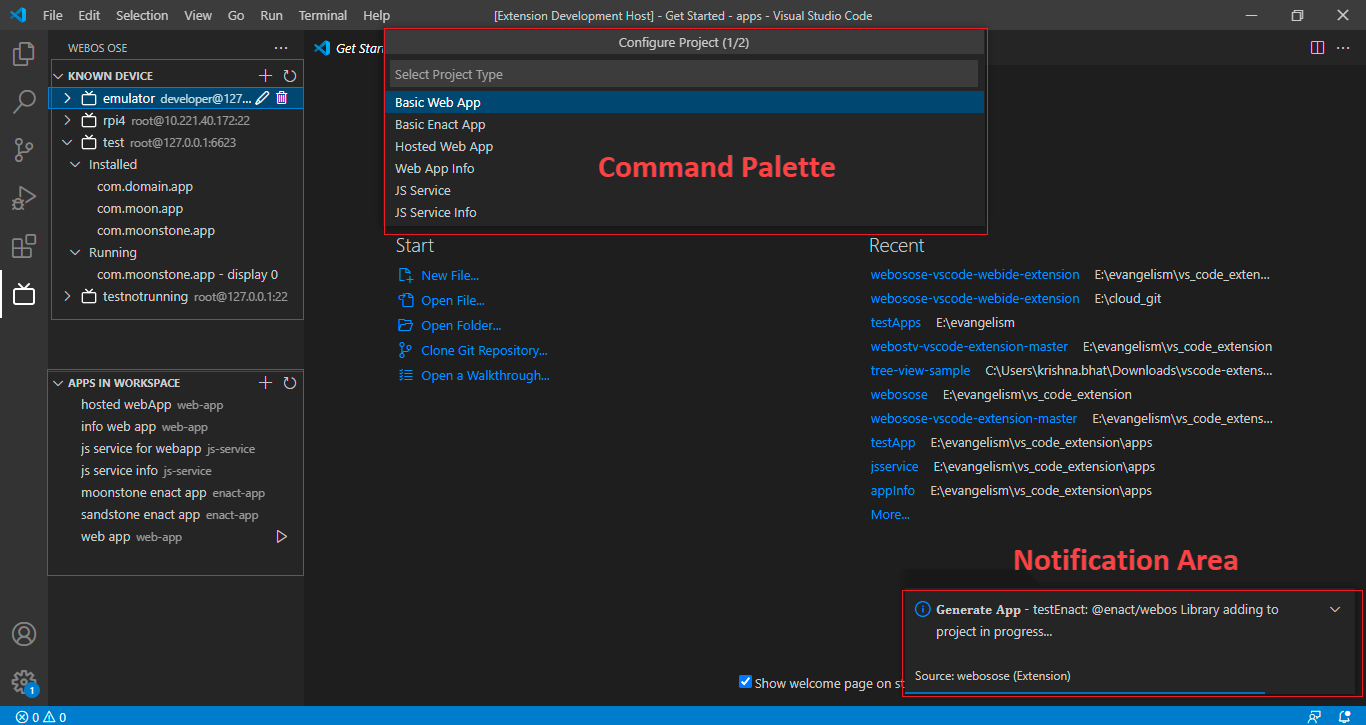
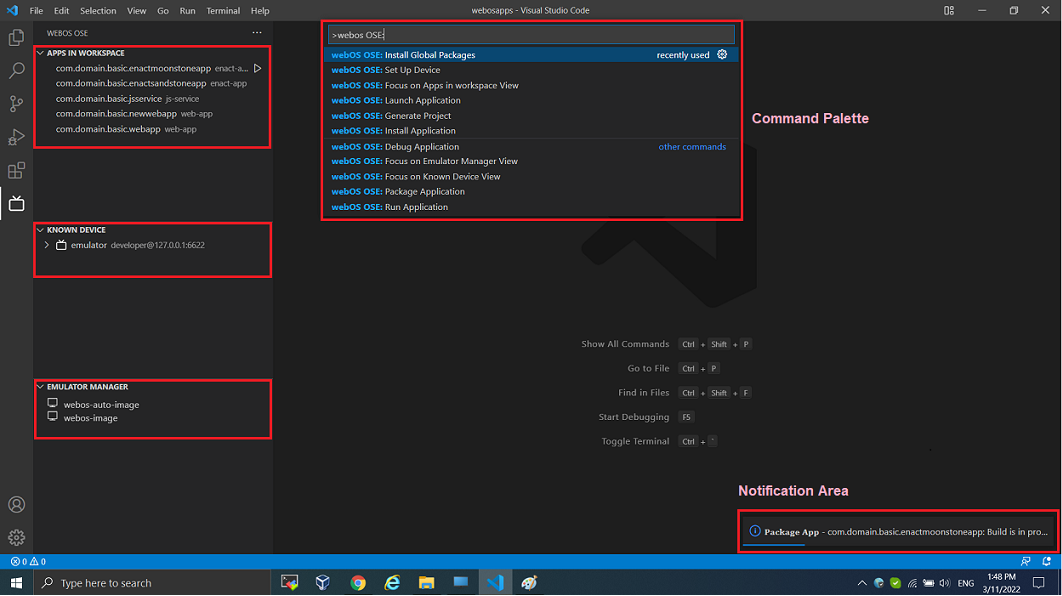
Release VS Code extension v2.0.0

Changed region(s): [[0.0, 0.0, 1.0, 1.0], [0.0311, 0.7852, 0.2175, 0.8154], [0.7458, 0.755, 0.9011, 0.7852]]

diff --git a/content/en/docs/tools/sdk/vs-code-extension/vs-code-extension-overview.md b/content/en/docs/tools/sdk/vs-code-extension/vs-code-extension-overview.md
@@ -1,7 +1,7 @@
 ---
 title: Overview
 display_title: Visual Studio Code Extension
-date: 2021-11-26
+date: 2022-04-06
 weight: 20
 toc: true
 ---
@@ -16,11 +16,13 @@ This page only describes the overview of the extension. For more details, see th
 
 webOS OSE VS Code extension provides the following key features:
 
-* Creating the web app, enact app or JS services from a template.
-* Assisting the use of webOS and Enact APIs through content assist.
+* Creating web apps, Enact apps, or JS services from a template.
+* Assisting the use of webOS LS2 APIs and Enact APIs through content assist.
 * Debugging the implementation.
-* Previewing the web app locally.
-* Packaging, installing, and running the apps.
+* Previewing an app locally.
+* Running ESLint on Enact apps.
+* Packaging, installing, and running apps.
+* Configuring and managing VirtualBox emulator.
 
 ## How to Install
 
@@ -60,20 +62,21 @@ For help on using the extension, see [Using the Extension](https://marketplace.v
       <li>Package App: Packages the app into an IPK.</li>
       <li>Install App: Install IPK on the device.</li>
       <li>Run App: Runs the app on the device.</li>
-      <li>Local Preview: Provides a local preview of a web app.</li>
-      <li>Install webOS: Installs the package to allow invocation of webOS luna APIs.</li>
-      <li>Debug: Runs Web Inspector to debug an app.</li>
-      <li>Debug Service: Runs Node Inspector to debug a JS service.</li>
+      <li>Local Preview: Provides a local preview of an app.</li>
+      <li>Install webOS: Installs the package to allow invocation of webOS LS2 APIs.</li>
+      <li>Run Lint: Runs ESLint for Enact apps.</li>
+      <li>Debug App/Service: Debugs apps and services in IDE.</li>
+      <li>Emulator Manager: Manages emulators directly on IDE.</li>
     </ul>
   </dd>
   <dt>Q. When must the webOS library be added to a project?</dt>
   <dd>
-    <p><b>A.</b> The webOS library is required when it is required to invoke webOS luna APIs in the app/service.</p>
+    <p><b>A.</b> The webOS library is required when it is required to invoke webOS LS2 APIs in the app/service.</p>
     <p></p>
   </dd>
-  <dt>Q. I have not added any device, yet I can see an entry named emulator.</dt>
+  <dt>Q. I have not added any device in the <strong>KNOWN DEVICE</strong> pane, yet I can see an entry named emulator.</dt>
   <dd>
-    <p><b>A.</b> Emulator is a default entry that is shown. If not already done, set up the emulator as described in <a href="/docs/tools/sdk/emulator/virtualbox-emulator/emulator-user-guide/">Emulator User Guide</a>.</p>
+    <p><b>A.</b> Emulator is a default entry that is shown. It is associated with the emulator that is running on the local system. If an emulator instance is not already set up, go to the <strong>EMULATOR MANAGER</strong> pane and add the emulator instance.</p>
     <p></p>
   </dd>
   <dt>Q. Getting an error while packaging the app, when my folder path contains special characters.</dt>
